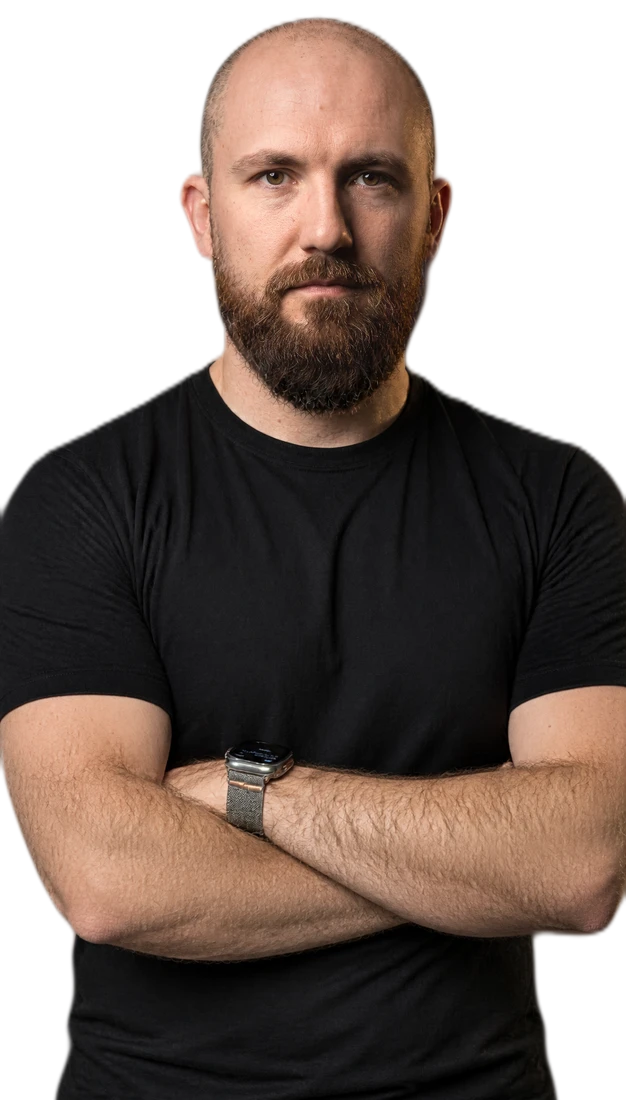
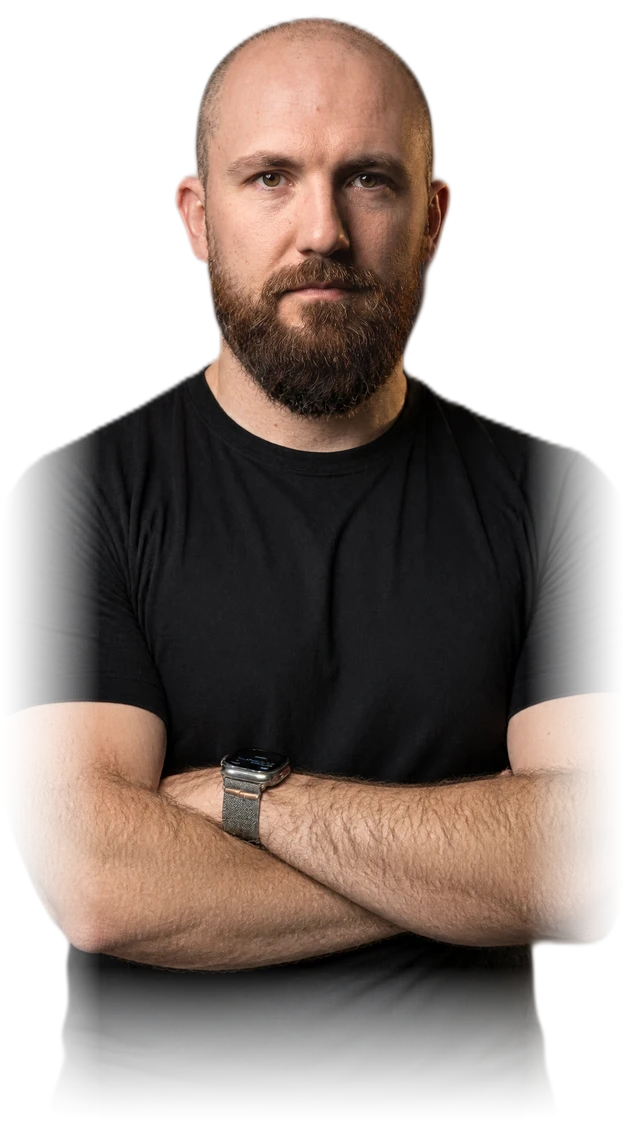
Update site

diff --git a/index.html b/index.html
@@ -117,7 +117,7 @@ h2.sec span{color:var(--amber)}
 .quote cite{color:var(--steel);font-style:normal;font-size:15px}
 .about{display:grid;grid-template-columns:.8fr 1.2fr;gap:36px;align-items:end;background:radial-gradient(500px 300px at 20% 80%,rgba(242,169,0,.16),transparent 70%),var(--navy2);
   border:1px solid var(--slate);border-radius:18px;padding:30px 30px 0;overflow:hidden}
-.about img{display:block;width:100%;max-width:380px;height:auto;margin:0 auto}
+.about img{display:block;width:100%;max-width:380px;height:auto;margin:0 auto;align-self:center;justify-self:center}
 .about .txt{padding-bottom:30px}
 .about p{color:var(--steel)}
 .hostname{font:700 26px "Barlow Condensed",sans-serif;margin:20px 0 4px;text-transform:uppercase;letter-spacing:.04em}
@@ -328,13 +328,13 @@ footer .wrap{display:flex;justify-content:space-between;gap:20px;flex-wrap:wrap}
 
   <section id="about">
     <div class="about">
-      <img src="img/host.webp?v=1795466688" alt="Damyan Ivanov, host of Fulcrum Brief" loading="lazy">
+      <img src="img/host.webp?v=1795466871" alt="Damyan Ivanov, host of Fulcrum Brief" loading="lazy">
       <div class="txt">
         <span class="kicker">About</span>
         <h2 class="sec" style="margin:6px 0 10px">Analysis from the <span>eastern flank</span></h2>
         <p>Fulcrum Brief covers the wars and conflicts shaping the world, wherever they flare up, and what they mean for your money and your life. Every claim is checked and every source is named on screen and in the description.</p><p>Each video finds the pivot point of a story, the moment the balance shifted, and ends on what it means for everyday life: prices at the pump, groceries, markets, security.</p><p>New full videos every Monday, Wednesday and Friday.</p>
         <h3 class="hostname">Damyan Ivanov <span>Host</span></h3>
-        <p>Fulcrum Brief is presented by Damyan Ivanov. He lives in Bulgaria, in the Black Sea region on NATO&#x27;s eastern flank, across the sea from the war in Ukraine and beside the shipping lanes and energy routes it keeps hitting.</p><p>Each briefing follows the same discipline: find the pivot point, show every source on screen, label claims as claims, and end on what it means for the people watching.</p>
+        <p>Fulcrum Brief is presented by Damyan Ivanov, who lives in Bulgaria, in the Black Sea region on NATO&#x27;s eastern flank, across the sea from the war in Ukraine and beside the shipping lanes and energy routes it keeps hitting.</p><p>Each briefing follows the same discipline: find the pivot point, show every source on screen, label claims as claims, and end on what it means for the people watching.</p>
       </div>
     </div>
   </section>

diff --git a/build.py b/build.py
@@ -270,7 +270,7 @@ h2.sec span{{color:var(--amber)}}
 .quote cite{{color:var(--steel);font-style:normal;font-size:15px}}
 .about{{display:grid;grid-template-columns:.8fr 1.2fr;gap:36px;align-items:end;background:radial-gradient(500px 300px at 20% 80%,rgba(242,169,0,.16),transparent 70%),var(--navy2);
   border:1px solid var(--slate);border-radius:18px;padding:30px 30px 0;overflow:hidden}}
-.about img{{display:block;width:100%;max-width:380px;height:auto;margin:0 auto}}
+.about img{{display:block;width:100%;max-width:380px;height:auto;margin:0 auto;align-self:center;justify-self:center}}
 .about .txt{{padding-bottom:30px}}
 .about p{{color:var(--steel)}}
 .hostname{{font:700 26px "Barlow Condensed",sans-serif;margin:20px 0 4px;text-transform:uppercase;letter-spacing:.04em}}
